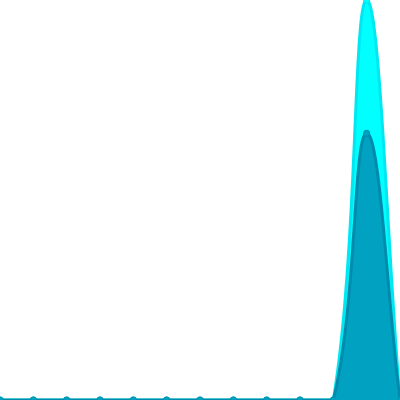
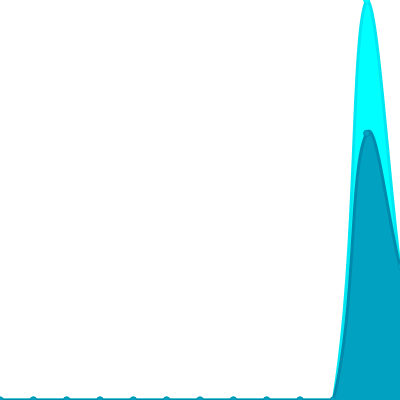
Update views

diff --git a/readme/954739905/year.md b/readme/954739905/year.md
@@ -23,10 +23,10 @@
 			<code>2025/4/1</code>
 		</td>
 		<td>
-			<code>0</code>
+			<code>1</code>
 		</td>
 		<td>
-			<code>0</code>
+			<code>1</code>
 		</td>
 	</tr>
 	<tr>
@@ -164,7 +164,7 @@
 </table>
 
 </details>
-<small><i>Last updated on 2025/4/10 12:22 PM UTC</i></small>
+<small><i>Last updated on 2025/4/10 6:16 PM UTC</i></small>
 
 ## ✂Copy and 📋 Paste
 ### SVG Badge

diff --git a/README.md b/README.md
@@ -37,7 +37,7 @@ The project created and maintained by [gayanvoice](https://github.com/gayanvoice
 	</tr>
 </table>
 
-<small><i>Last updated on 2025/4/10 12:22 PM UTC</i></small>
+<small><i>Last updated on 2025/4/10 6:16 PM UTC</i></small>
 
 ## ✂Copy and 📋 Paste
 ### Total Views Badge
